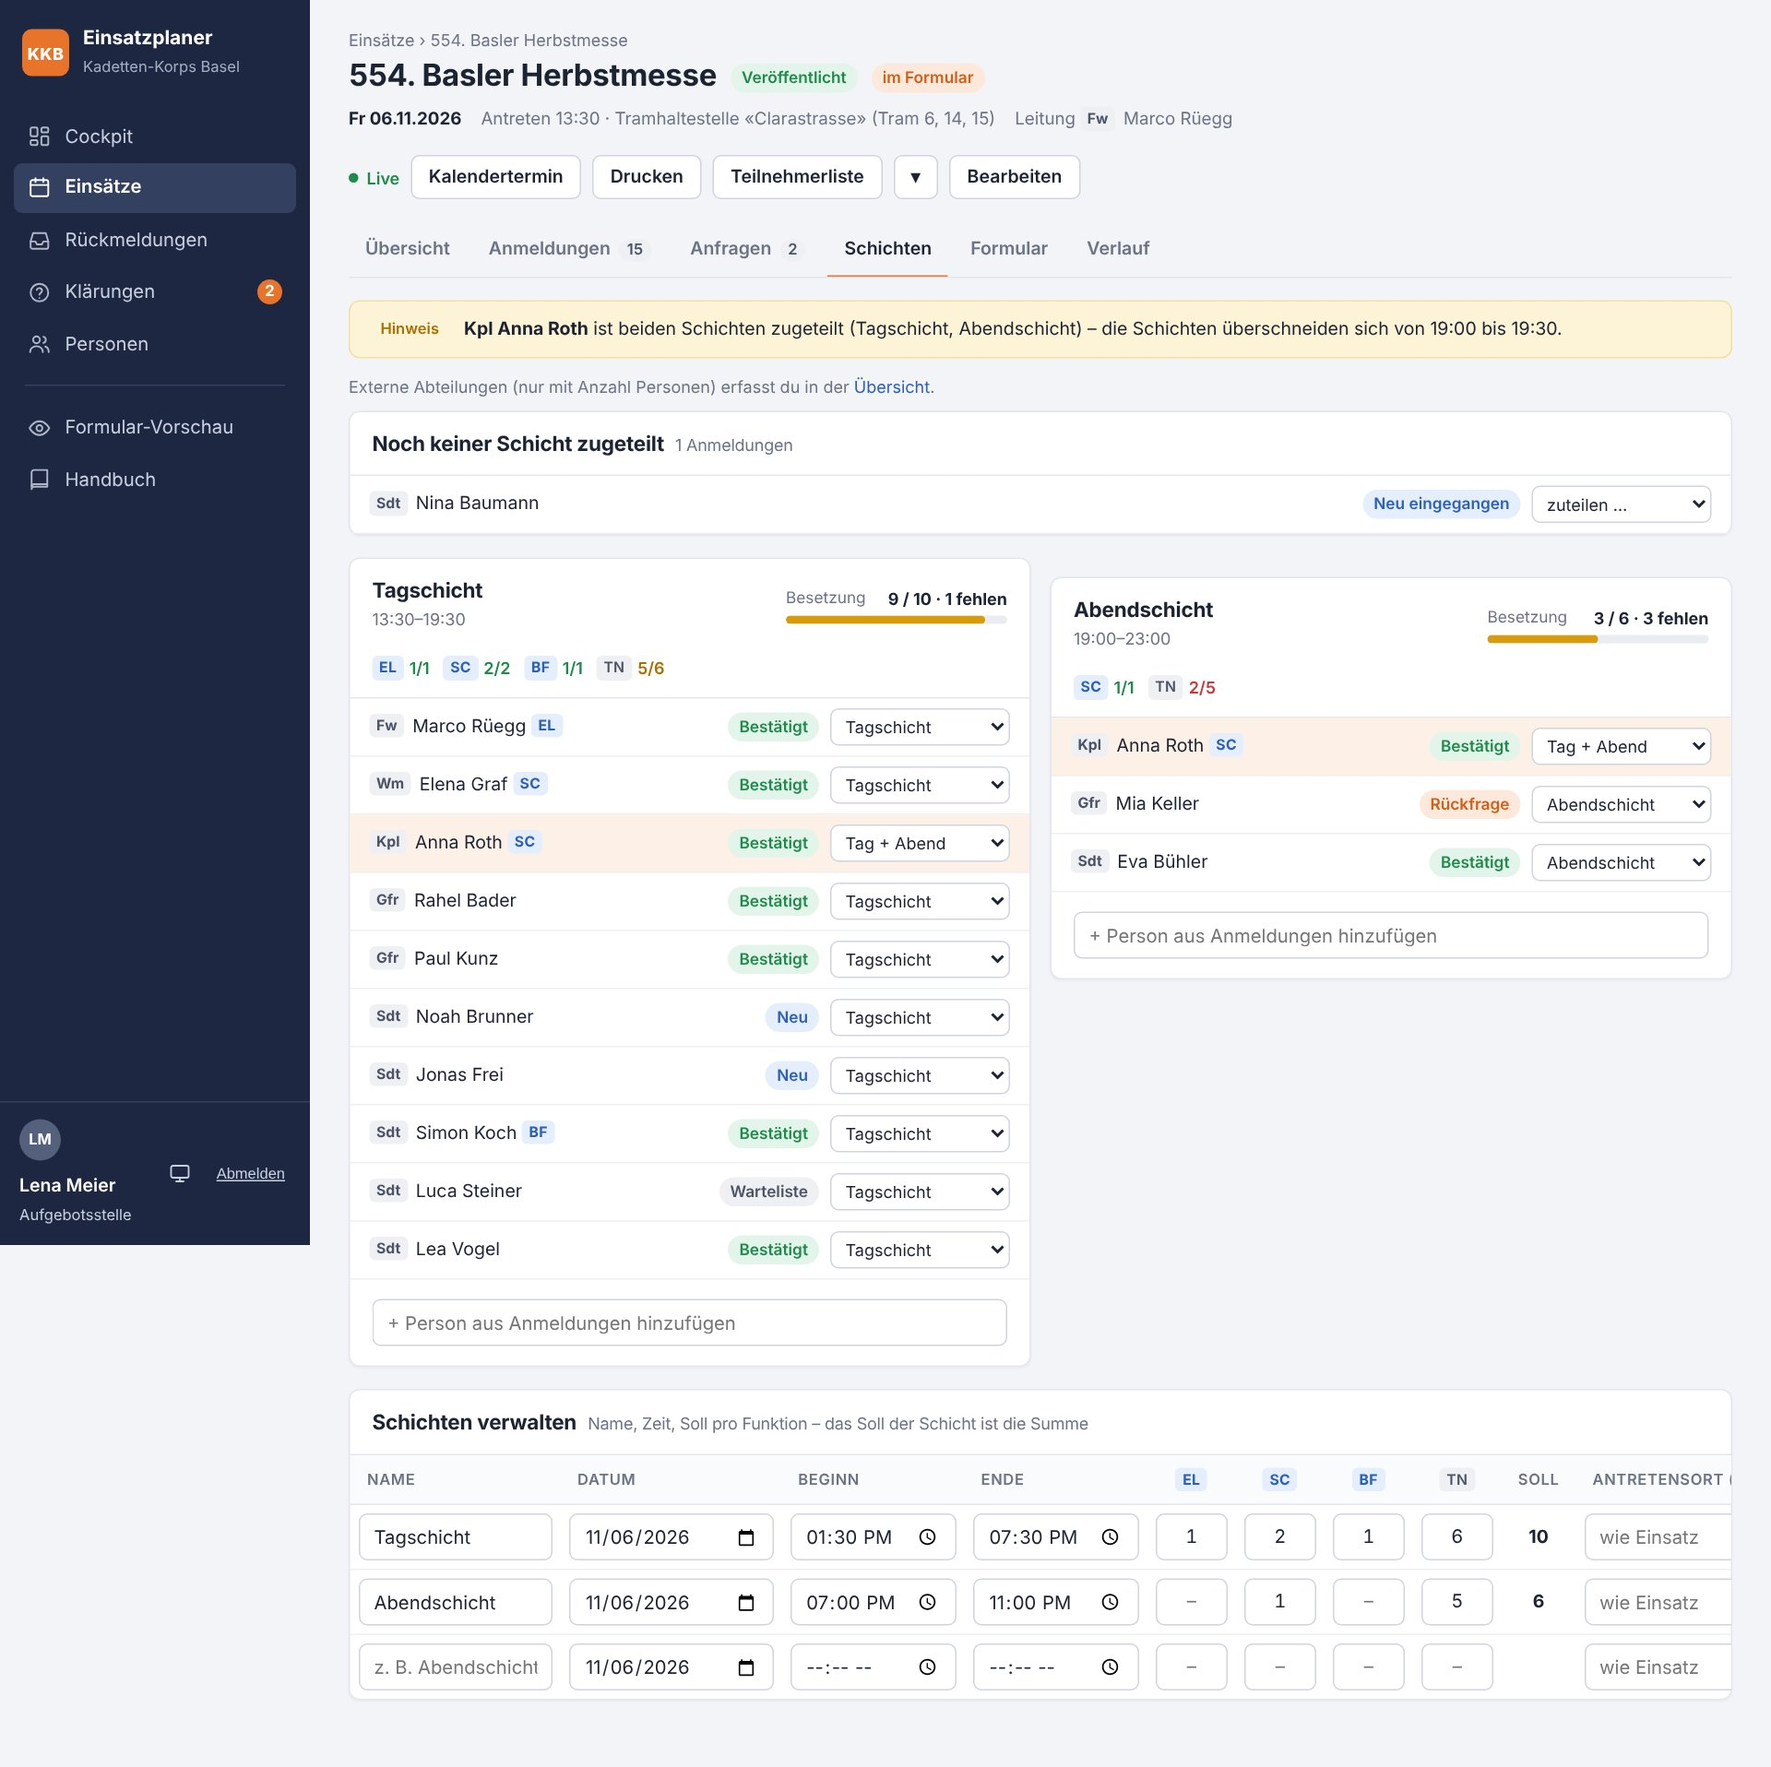
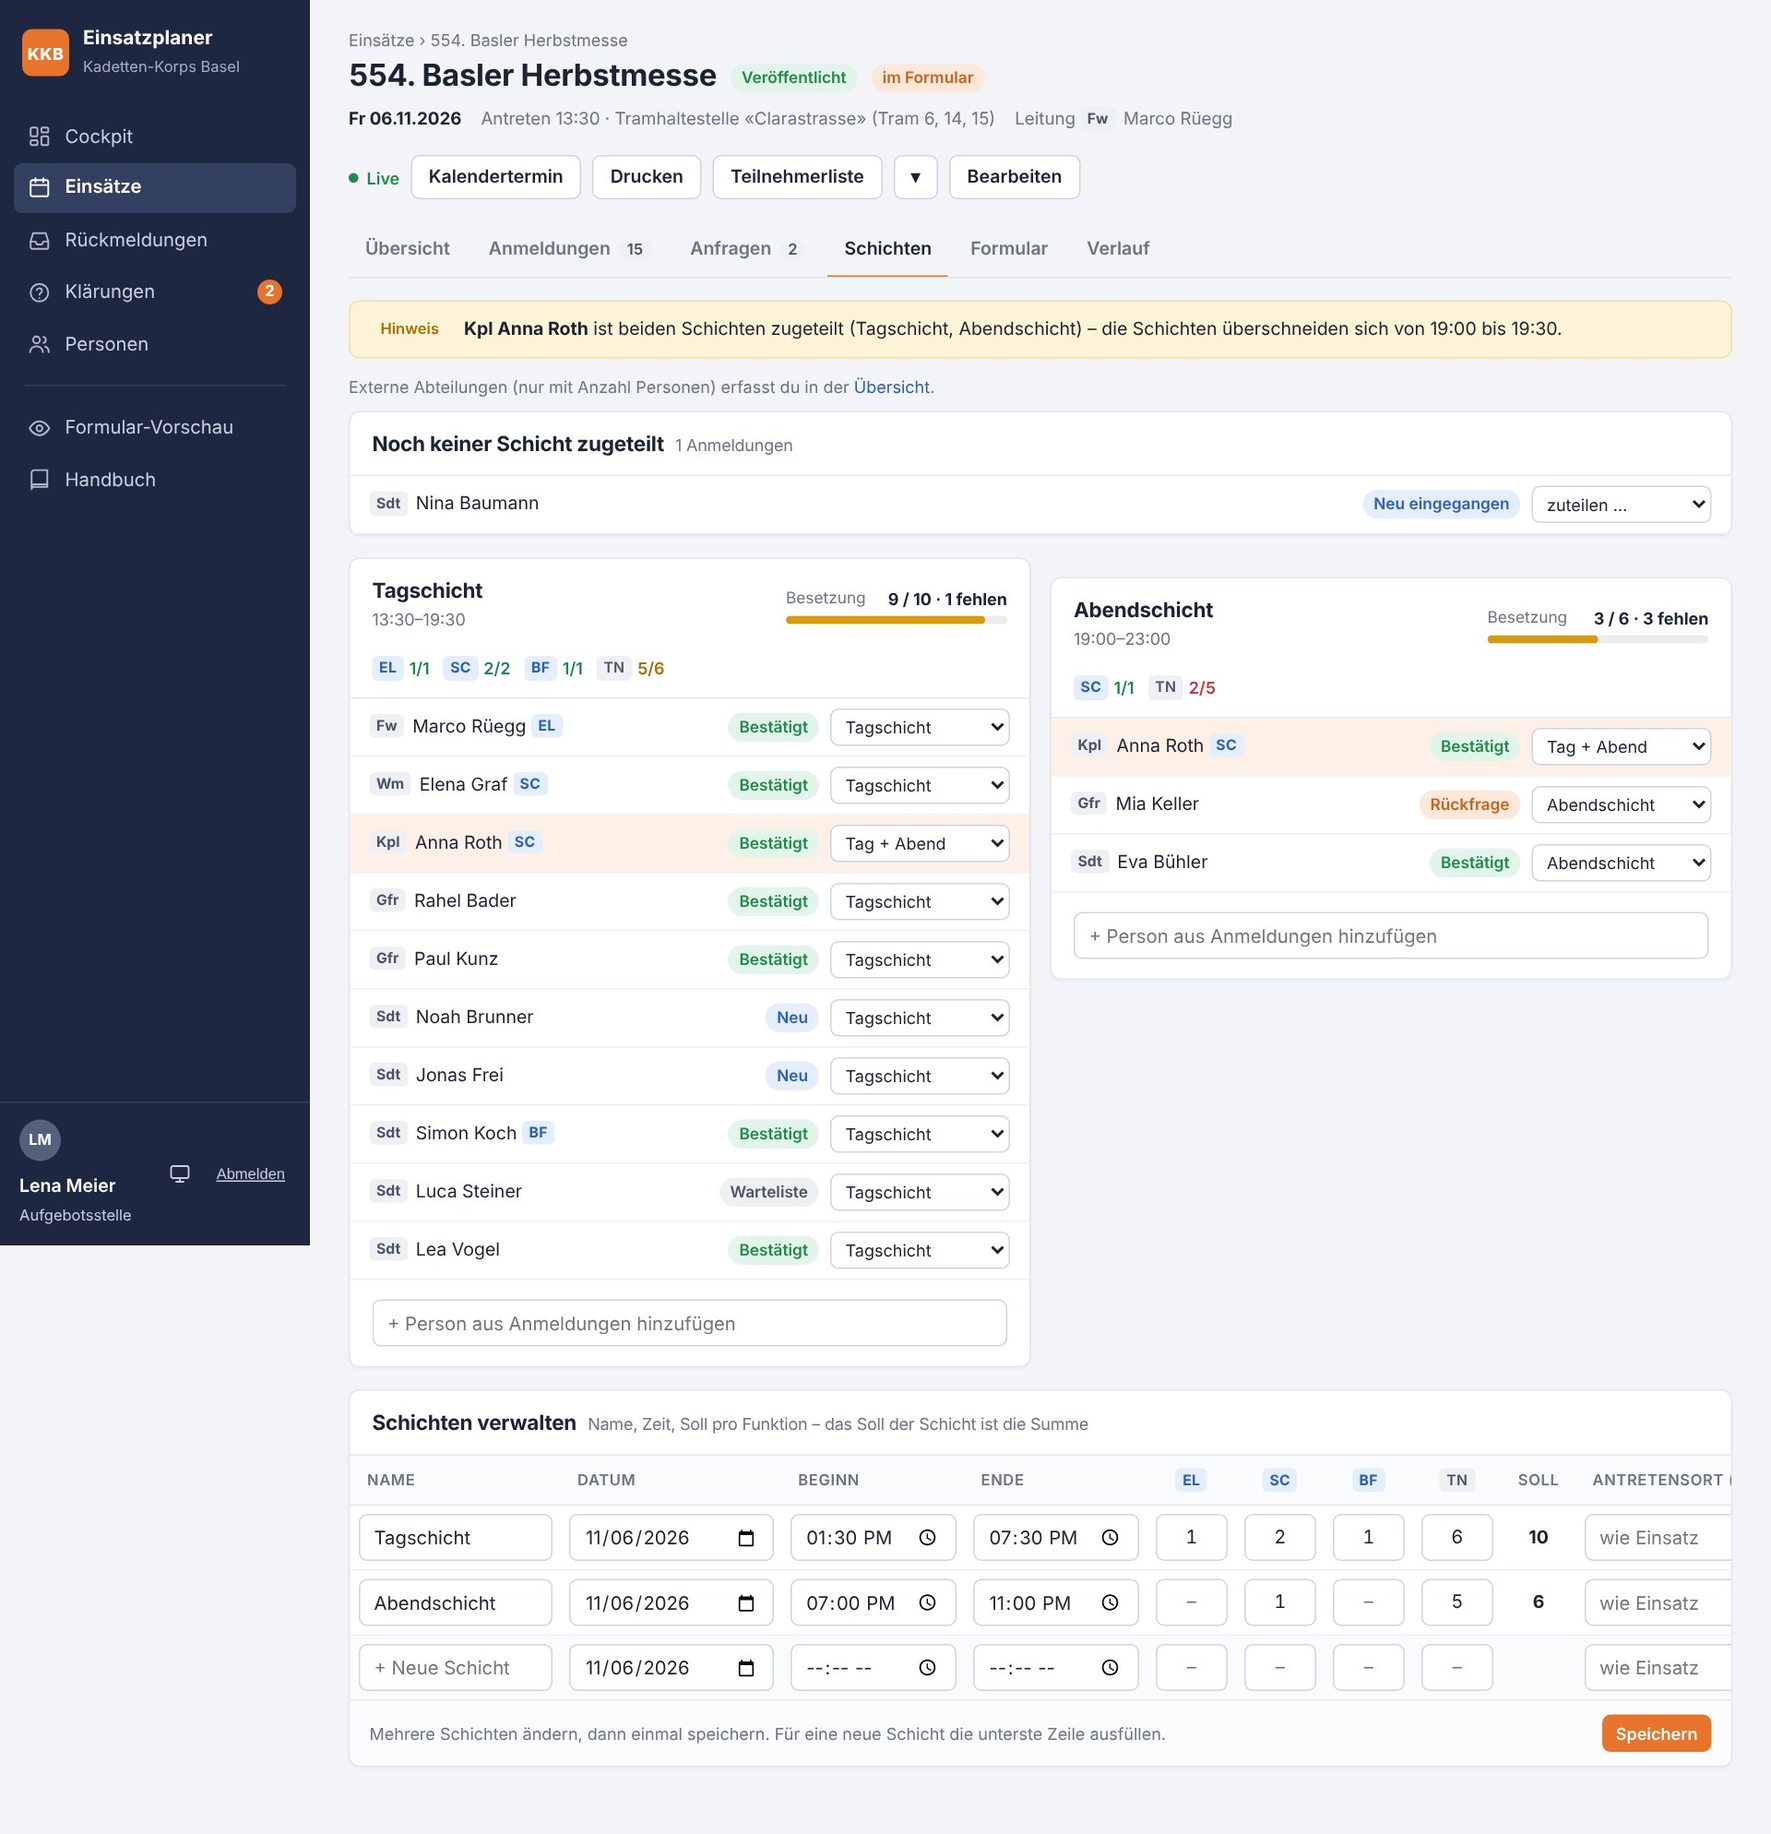
Schichten verwalten: ein Speichern-Knopf für die ganze Tabelle
Statt «Speichern» pro Zeile speichert ein Knopf unten rechts alle geänderten
Schichten und eine neu eingetragene Schicht auf einmal (alles oder nichts).
Geänderte Zeilen werden markiert, die Soll-Summe rechnet beim Tippen mit.
Löschen bleibt pro Zeile. Handbuch und Bild nachgeführt.

Claude-Session: https://claude.ai/code/session_01EBemczJK95s4oy7tbL46WJ

diff --git a/src/services/events.js b/src/services/events.js
@@ -278,14 +278,7 @@ function cleanShift(event, input) {
 function addShift(eventId, input, user, { reason } = {}) {
   const e = get(eventId);
   assertEditable(e, user, reason);
-  const s = cleanShift(e, input);
-  const sort = (db.one('SELECT max(sort) AS m FROM shifts WHERE event_id = ?', eventId).m ?? 0) + 1;
-  const info = db.run('INSERT INTO shifts (event_id, name, starts_at, ends_at, start_place, internal_note, sort) VALUES (?, ?, ?, ?, ?, ?, ?)',
-    eventId, s.name, s.starts_at, s.ends_at, s.start_place, s.internal_note, sort);
-  setShiftTargets(Number(info.lastInsertRowid), targetsFromInput(input) || {});
-  // Sobald es mehrere Schichten gibt, ist die Standardschicht eine normale Schicht
-  db.run('UPDATE shifts SET is_default = 0 WHERE event_id = ?', eventId);
-  audit.log({ entity: 'shift', entityId: Number(info.lastInsertRowid), eventId, action: 'create', summary: `${user.display_name} hat bei «${e.name}» die Schicht «${s.name}» hinzugefügt`, user });
+  insertShift(e, cleanShift(e, input), targetsFromInput(input) || {}, user);
   live.notify(`event:${eventId}`, 'form');
 }
 
@@ -303,6 +296,70 @@ function updateShift(shiftId, input, user, { reason } = {}) {
   if (targets && JSON.stringify(targets) !== JSON.stringify(functions.parseTargets(shift.function_targets))) details.soll = { alt: shift.target_count, neu: functions.total(targets) || null };
   audit.log({ entity: 'shift', entityId: shiftId, eventId: e.id, action: 'update', summary: `${user.display_name} hat die Schicht «${s.name}» bei «${e.name}» geändert`, details, user });
   live.notify(`event:${e.id}`, 'form');
+}
+
+// Tabelle «Schichten verwalten»: alle Zeilen mit einem Klick speichern. Gespeichert werden nur
+// Zeilen, die sich geändert haben; ist in der leeren Zeile ein Name eingetragen, kommt eine neue
+// Schicht dazu. Alles oder nichts: ist eine Zeile ungültig, wird nichts gespeichert.
+// rows: { <shiftId>: { name, date, start, end, start_place, internal_note, fn_target_<fid> } }
+function saveShifts(eventId, rows, newRow, user, { reason } = {}) {
+  const e = get(eventId);
+  if (!e) throw new ValidationError(['Einsatz nicht gefunden.']);
+  assertEditable(e, user, reason);
+  const updates = [];
+  for (const shift of db.all('SELECT * FROM shifts WHERE event_id = ? ORDER BY sort, id', eventId)) {
+    const input = rows && rows[shift.id];
+    if (!input) continue;
+    let s;
+    let targets;
+    try {
+      s = cleanShift(e, input);
+      targets = targetsFromInput(input);
+    } catch (err) {
+      if (err instanceof ValidationError) throw new ValidationError(err.messages.map((m) => `Schicht «${shift.name}»: ${m}`));
+      throw err;
+    }
+    const oldTargets = functions.parseTargets(shift.function_targets);
+    const targetsChanged = Boolean(targets) && JSON.stringify(functions.parseTargets(targets)) !== JSON.stringify(oldTargets);
+    const details = audit.diff(shift, s, Object.keys(s));
+    if (!Object.keys(details).length && !targetsChanged) continue;
+    if (targetsChanged) details.soll = { alt: shift.target_count, neu: functions.total(targets) || null };
+    updates.push({ shift, s, targets: targetsChanged ? targets : null, details });
+  }
+  let added = null;
+  const hasNew = newRow && ['name', 'start', 'end', 'start_place', 'internal_note'].some((k) => String(newRow[k] || '').trim())
+    || (newRow && Object.keys(newRow).some((k) => k.startsWith('fn_target_') && String(newRow[k] || '').trim()));
+  if (hasNew) {
+    if (!String(newRow.name || '').trim()) throw new ValidationError(['Neue Schicht: Name fehlt.']);
+    try {
+      added = { s: cleanShift(e, newRow), targets: targetsFromInput(newRow) || {} };
+    } catch (err) {
+      if (err instanceof ValidationError) throw new ValidationError(err.messages.map((m) => `Neue Schicht: ${m}`));
+      throw err;
+    }
+  }
+  if (!updates.length && !added) return { updated: 0, added: false };
+  db.tx(() => {
+    for (const u of updates) {
+      db.run('UPDATE shifts SET name = ?, starts_at = ?, ends_at = ?, start_place = ?, internal_note = ?, is_default = 0, version = version + 1 WHERE id = ?',
+        u.s.name, u.s.starts_at, u.s.ends_at, u.s.start_place, u.s.internal_note, u.shift.id);
+      if (u.targets) setShiftTargets(u.shift.id, u.targets);
+      audit.log({ entity: 'shift', entityId: u.shift.id, eventId: e.id, action: 'update', summary: `${user.display_name} hat die Schicht «${u.s.name}» bei «${e.name}» geändert${reason ? ` – Begründung: ${reason}` : ''}`, details: u.details, user });
+    }
+    if (added) insertShift(e, added.s, added.targets, user);
+  });
+  live.notify(`event:${e.id}`, 'form');
+  return { updated: updates.length, added: Boolean(added) };
+}
+
+function insertShift(e, s, targets, user) {
+  const sort = (db.one('SELECT max(sort) AS m FROM shifts WHERE event_id = ?', e.id).m ?? 0) + 1;
+  const info = db.run('INSERT INTO shifts (event_id, name, starts_at, ends_at, start_place, internal_note, sort) VALUES (?, ?, ?, ?, ?, ?, ?)',
+    e.id, s.name, s.starts_at, s.ends_at, s.start_place, s.internal_note, sort);
+  setShiftTargets(Number(info.lastInsertRowid), targets || {});
+  // Sobald es mehrere Schichten gibt, ist die Standardschicht eine normale Schicht
+  db.run('UPDATE shifts SET is_default = 0 WHERE event_id = ?', e.id);
+  audit.log({ entity: 'shift', entityId: Number(info.lastInsertRowid), eventId: e.id, action: 'create', summary: `${user.display_name} hat bei «${e.name}» die Schicht «${s.name}» hinzugefügt`, user });
 }
 
 function deleteShift(shiftId, user, { reason } = {}) {
@@ -383,7 +440,7 @@ function label(e) {
 }
 
 module.exports = {
-  get, list, create, update, setStatus, setShowInForm, addShift, updateShift, deleteShift, checklist, stats, span, lastEnd,
+  get, list, create, update, setStatus, setShowInForm, addShift, updateShift, saveShifts, deleteShift, checklist, stats, span, lastEnd,
   shiftEnded, isInForm, openForForm, shiftsOf, extraDefs, assertEditable, occupancyTone, label, FIELD_LABELS, lastChange, parseJson,
   fmtDateShort, setShiftTargets,
 };

diff --git a/test/http.test.js b/test/http.test.js
@@ -473,6 +473,37 @@ test('Funktionen: Soll pro Einsatz festlegen, zuweisen, Ist/Soll und Teilnehmerl
   assert.equal((await get(`/einsaetze/${ev}/schichten`, auf.cookie)).status, 200);
   assert.equal((await get(`/einsaetze/${ev}/bearbeiten`, auf.cookie)).status, 200);
 
+  // Schichten verwalten: ein Speichern-Knopf für alle Zeilen, neue Zeile wird mitgespeichert
+  const shPage = await (await get(`/einsaetze/${ev}/schichten`, auf.cookie)).text();
+  assert.match(shPage, new RegExp(`action="/einsaetze/${ev}/schichten/speichern"`));
+  assert.match(shPage, new RegExp(`name="name__${sh1.id}"`));
+  assert.doesNotMatch(shPage, new RegExp(`action="/schichten/${sh1.id}"`), 'kein Speichern pro Zeile mehr');
+  const sh0 = events.get(ev).shifts[0];
+  const rowOf = (s, extra = {}) => [['name', s.name], ['date', s.starts_at ? s.starts_at.slice(0, 10) : events.get(ev).date], ['start', s.starts_at ? s.starts_at.slice(11, 16) : ''],
+    ['end', s.ends_at ? s.ends_at.slice(11, 16) : ''], ['start_place', s.start_place || ''], ['internal_note', s.internal_note || ''],
+    ...['EL', 'SC', 'BF', 'TN'].map((k) => [`fn_target_${fn(k)}`, String(s.targets[fn(k)] ?? '')])].map(([k, v]) => [`${k}__${s.id}`, extra[k] ?? v]);
+  const logCount = () => db.one("SELECT count(*) AS n FROM audit_log WHERE entity_type = 'shift'").n;
+  // nichts geändert: nichts gespeichert, kein Verlaufseintrag
+  const before = logCount();
+  assert.equal((await post(`/einsaetze/${ev}/schichten/speichern`, rowOf(sh0))).status, 302);
+  assert.equal(logCount(), before);
+  // angefangene neue Zeile ohne Namen: Fehler, auch die geänderte Zeile bleibt ungespeichert
+  await post(`/einsaetze/${ev}/schichten/speichern`, [...rowOf(sh0, { name: 'Tagschicht' }), ['name__neu', ''], [`fn_target_${fn('TN')}__neu`, '2']]);
+  assert.equal(events.get(ev).shifts[0].name, sh0.name);
+  // Zeile ändern und gleichzeitig eine neue Schicht anlegen
+  assert.equal((await post(`/einsaetze/${ev}/schichten/speichern`, [...rowOf(sh0, { name: 'Tagschicht', [`fn_target_${fn('SC')}`]: '3' }),
+    ['name__neu', 'Nacht'], ['date__neu', events.get(ev).date], ['start__neu', '22:00'], ['end__neu', '23:30'], [`fn_target_${fn('TN')}__neu`, '2']])).status, 302);
+  const after = events.get(ev).shifts;
+  assert.equal(after.length, 2);
+  assert.equal(after[0].name, 'Tagschicht');
+  assert.equal(after[0].targets[fn('SC')], 3);
+  assert.equal(after[1].name, 'Nacht');
+  assert.equal(after[1].target_count, 2);
+  assert.equal(logCount(), before + 2);
+  events.deleteShift(after[1].id, system);
+  db.run('UPDATE shifts SET name = ? WHERE id = ?', sh0.name, sh0.id);
+  events.setShiftTargets(sh0.id, sh0.targets);
+
   // Teilnehmerliste: Spalte Funktion, Ist/Soll, Export
   const tl = await (await get(`/einsaetze/${ev}/teilnehmerliste?sort=funktion`, auf.cookie)).text();
   assert.match(tl, /Funktionen \(Ist\/Soll\)/);

diff --git a/public/js/app.js b/public/js/app.js
@@ -214,6 +214,19 @@
     if (!ev.defaultPrevented) setTimeout(() => $$('button[type=submit]', form).forEach((b) => { b.disabled = true; }), 0);
   }, true);
 
+  // Schichten verwalten: Soll-Summe pro Zeile mitrechnen; eine angefangene neue Zeile braucht einen Namen
+  document.addEventListener('input', (ev) => {
+    const row = ev.target.closest('[data-soll-row]');
+    if (!row) return;
+    const parts = $$('[data-soll-part]', row).map((i) => Number(i.value) || 0);
+    const sum = $('[data-soll-sum]', row);
+    if (sum) sum.textContent = parts.some(Boolean) ? parts.reduce((a, n) => a + n, 0) : (row.matches('[data-new-shift]') ? '' : '–');
+    if (row.matches('[data-new-shift]')) {
+      const name = $('input[name="name__neu"]', row);
+      name.required = $$('input', row).some((i) => i !== name && i.type !== 'date' && i.value.trim());
+    }
+  });
+
   document.addEventListener('click', (ev) => {
     const t = ev.target.closest('button, a, [data-print]');
     if (!t) {
@@ -235,6 +248,12 @@
       const rows = row.parentElement;
       if ($$('[data-diet-row]', rows).length > 1) row.remove();
       else { $$('input', row).forEach((i) => { i.value = ''; }); $('select', row).value = ''; }
+      return;
+    }
+    // Schichten verwalten: «+ Hinzufügen» braucht einen Namen in der neuen Zeile
+    if (t.matches('[data-add-shift]')) {
+      const name = $('input[name="name__neu"]', t.closest('tr'));
+      if (name) name.required = true;
       return;
     }
     if (t.matches('[data-fill]')) {

diff --git a/src/routes/events.js b/src/routes/events.js
@@ -434,6 +434,25 @@ router.post('/einsaetze/:id/schichten', loadEvent, (req, res) => {
   res.redirect(`/einsaetze/${req.event.id}/schichten`);
 });
 
+// Tabelle «Schichten verwalten»: ein Speichern-Knopf für alle Zeilen (Felder <feld>__<schicht-id>, neue Zeile <feld>__neu)
+router.post('/einsaetze/:id/schichten/speichern', loadEvent, (req, res) => {
+  const rows = {};
+  let newRow = null;
+  for (const [key, value] of Object.entries(req.body)) {
+    const m = /^(\w+?)__(\d+|neu)$/.exec(key);
+    if (!m) continue;
+    const v = Array.isArray(value) ? value[value.length - 1] : value;
+    if (m[2] === 'neu') (newRow ||= {})[m[1]] = v;
+    else (rows[m[2]] ||= {})[m[1]] = v;
+  }
+  const r = events.saveShifts(req.event.id, rows, newRow, req.user, { reason: req.body.reason });
+  const parts = [];
+  if (r.updated) parts.push(r.updated === 1 ? '1 Schicht gespeichert' : `${r.updated} Schichten gespeichert`);
+  if (r.added) parts.push('neue Schicht hinzugefügt');
+  flash(res, parts.length ? 'success' : 'info', parts.length ? `${parts.join(', ').replace(/^./, (c) => c.toUpperCase())}.` : 'Keine Änderungen – nichts zu speichern.');
+  res.redirect(`/einsaetze/${req.event.id}/schichten`);
+});
+
 router.post('/schichten/:sid', (req, res) => {
   const s = db.one('SELECT * FROM shifts WHERE id = ?', Number(req.params.sid));
   if (!s) return res.redirect('/einsaetze');

diff --git a/docs/handbuch/handbuch.md b/docs/handbuch/handbuch.md
@@ -404,7 +404,7 @@ Die meisten Einsätze haben nur eine Schicht für alle. Dann gibt es nichts zu v
 ![Einsatz › Schichten mit zwei Schichten](bilder/13-schichten.jpg)
 
 - Jede Schicht ist eine Spalte mit Zeit und Besetzung (Ist / Soll). Grün heisst voll. Darunter Ist / Soll pro Funktion, z. B. «EL 1/1 · SC 2/2 · TN 5/6».
-- **Schichten verwalten** (unten): Name, Zeit und das Soll pro Funktion (Spalten EL, SC, BF, TN). Die Spalte «Soll» zeigt die Summe.
+- **Schichten verwalten** (unten): Name, Zeit und das Soll pro Funktion (Spalten EL, SC, BF, TN). Die Spalte «Soll» zeigt die Summe und rechnet beim Tippen mit. Die Tabelle hat **einen einzigen Speichern-Knopf** unten rechts: mehrere Schichten ändern, bei Bedarf in der untersten Zeile eine neue Schicht eintragen, dann einmal **Speichern**. Geänderte Zeilen sind links orange markiert, und der Fuss der Tabelle zeigt «Ungespeicherte Änderungen». **+ Hinzufügen** in der neuen Zeile speichert ebenfalls alles auf einmal. **Löschen** wirkt sofort pro Zeile (mit Rückfrage). Ist eine Zeile ungültig, z. B. eine angefangene neue Schicht ohne Namen, wird nichts gespeichert.
 - **Noch keiner Schicht zugeteilt:** Anmeldungen ohne Schicht stehen oben und werden über «zuteilen …» eingeteilt.
 - **Umteilen** über das Auswahlfeld bei der Person. Eine Person kann auch mehreren Schichten zugeteilt sein («Tag + Abend»).
 - **+ Person aus Anmeldungen hinzufügen:** Name tippen und auswählen.
@@ -585,7 +585,7 @@ Die Liste **Externe Abteilungen** füllt sich auch von selbst, wenn bei einem Ei
 
 Bei den Anmeldefragen legt die Spalte **Standard** fest, welche Vorlage bei jedem neuen Einsatz schon vorausgewählt ist, samt Fragetext und Hilfetext. Mit «keiner» ist nichts vorausgewählt.
 
-> **Speichern pro Abschnitt:** In Auswahllisten und Vorlagen hat jeder Abschnitt einen einzigen Speichern-Knopf. Mehrere Zeilen ändern, in der leeren Zeile etwas Neues eintragen, bei anderen «entfernen» ankreuzen – und dann einmal speichern. Geänderte Zeilen sind links orange markiert. Ränge, Mannschaften oder externe Abteilungen, die noch verwendet werden, lassen sich nicht entfernen, nur deaktivieren.
+> **Speichern pro Abschnitt:** In Auswahllisten, Vorlagen und bei «Schichten verwalten» hat jeder Abschnitt einen einzigen Speichern-Knopf. Mehrere Zeilen ändern, in der leeren Zeile etwas Neues eintragen, bei anderen «entfernen» ankreuzen – und dann einmal speichern. Geänderte Zeilen sind links orange markiert. Ränge, Mannschaften oder externe Abteilungen, die noch verwendet werden, lassen sich nicht entfernen, nur deaktivieren.
 
 ### Bestätigungsmail
 
